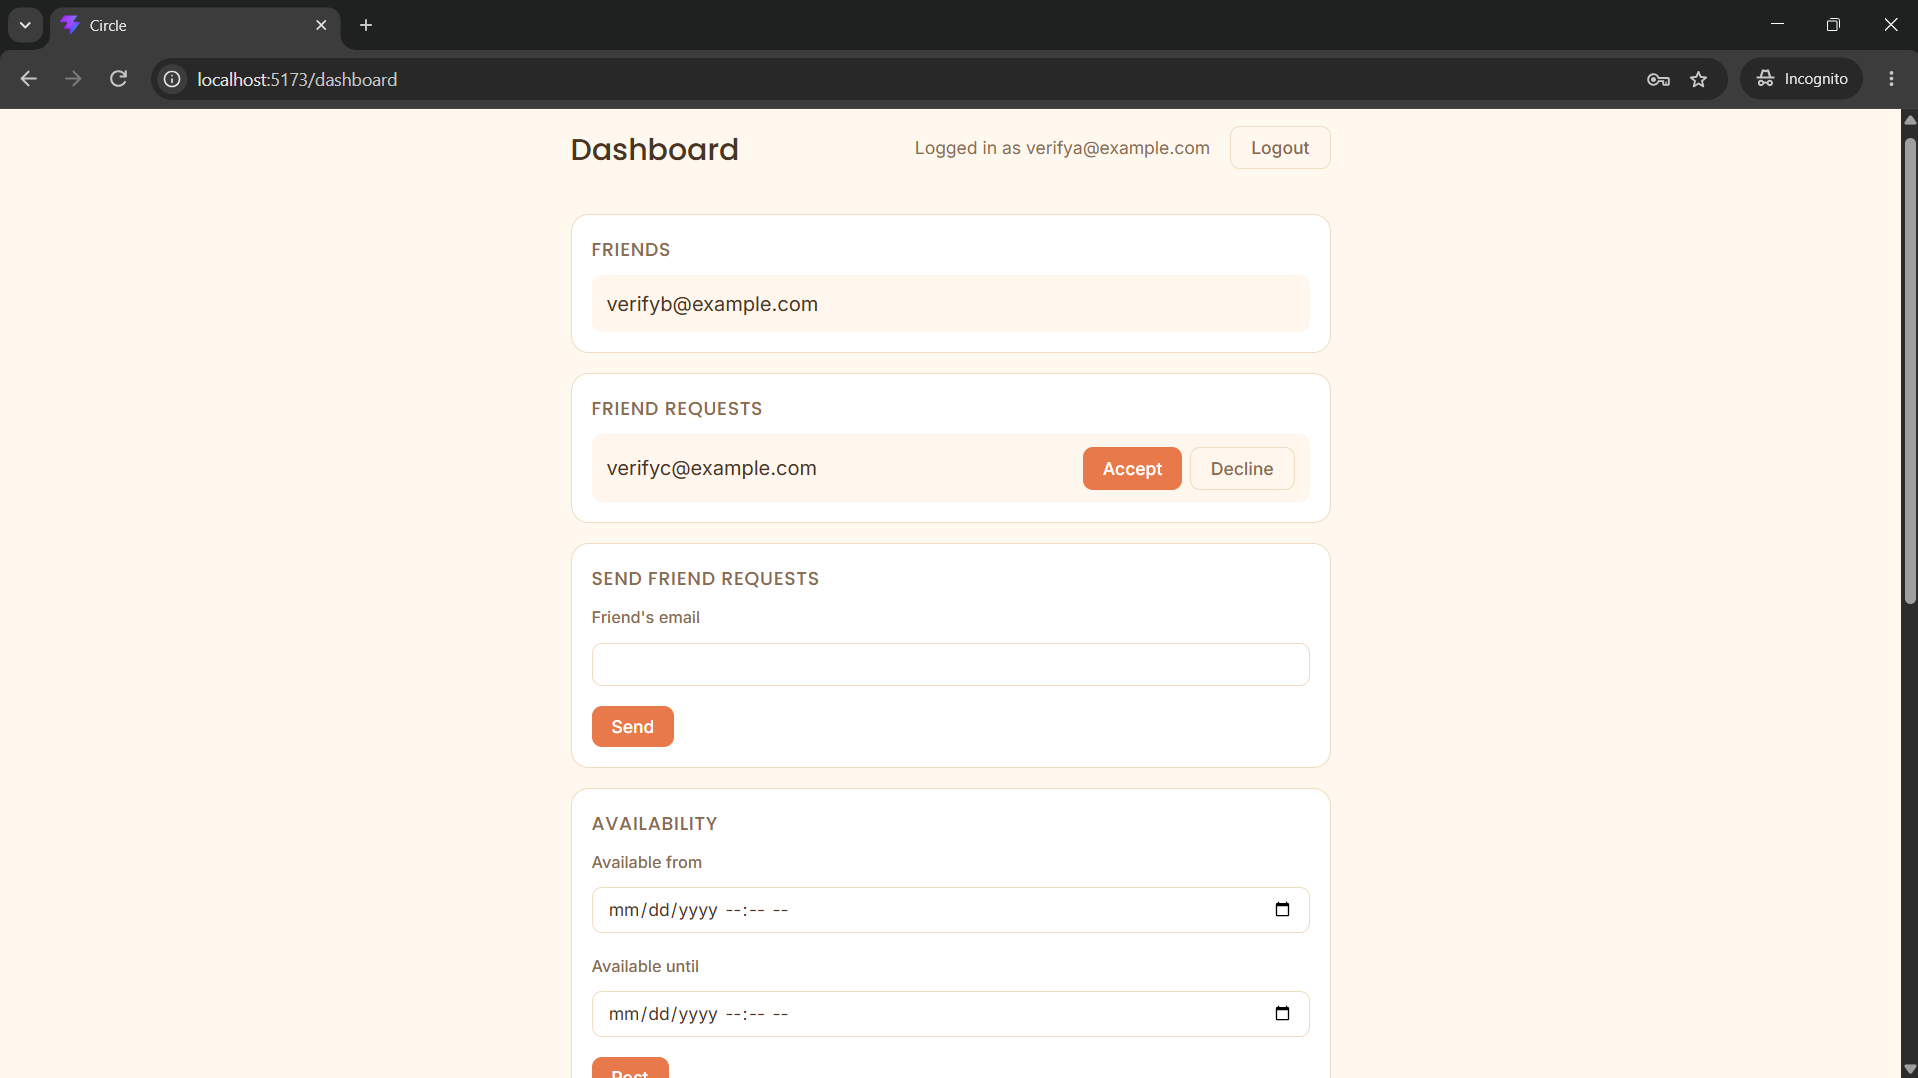
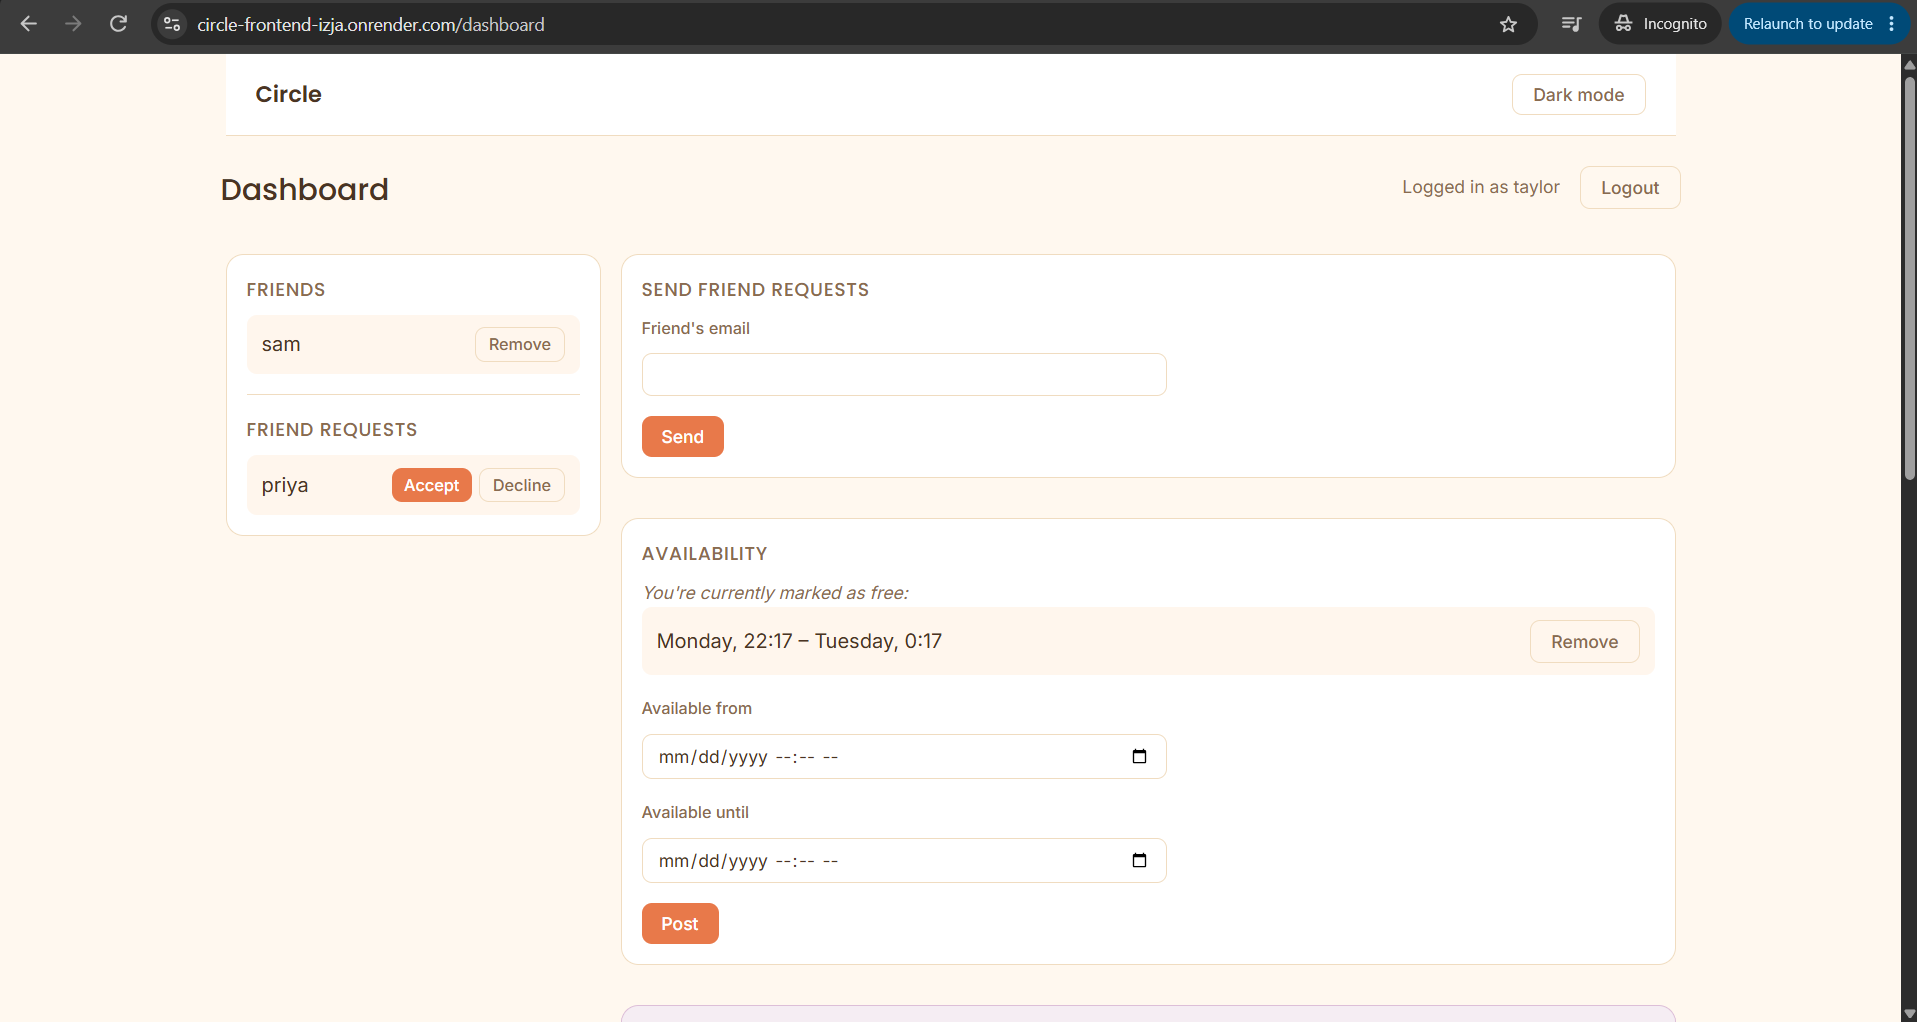
Add live demo link and fresh screenshots after full deployment verification
Ran a full error-case battery and clicked through every dashboard action button against the live production system (not just local/CI) - all correct. Fixed one real bug found in the process: direct-loading any frontend route besides / returned a 404 from Render's static file server, since those routes only exist client-side via React Router. Added a rewrite rule (Render dashboard setting, not a repo change) so any unmatched path still serves the app and lets React Router take over. README now links the live demo, and screenshots reflect the current UI instead of a two-week-old snapshot.

diff --git a/PROGRESS.md b/PROGRESS.md
@@ -989,3 +989,45 @@ That check-in happened: all three (#5, #7, #9) were reviewed and committed as th
 **Part E — wrap-up:** swap the live URL into the README, fresh screenshots against the current UI (current ones predate the sidebar layout, Current Outings, and the username field), commit.
 
 Still genuinely deferred, not scheduled, no urgency: #8 (soften the "mutual reveal" copy), #19 (accessibility pass), #20 (split the large `DashboardPage.jsx` into smaller components). After deployment is verified working: the interview-prep loop (see memory), not a coding task.
+
+---
+
+### What actually happened, executing the plan above (2026-09-27, continued)
+
+**Attribution change, mid-deployment:** user asked to stop the `Co-Authored-By: Claude` trailer going forward, and to also strip it from all 74 already-pushed commits rather than leave it. Since nobody else had cloned the repo yet, this was safe: `git filter-branch --msg-filter 'sed "/^Co-Authored-By: Claude/d"'` rewrote every commit's message (verified via `git diff` against the pre-rewrite hash that the actual code/tree was byte-identical — only message text changed), then `git push --force-with-lease`. Going forward, the user runs `git add`/`git commit`/`git push` themselves; I hand over exact commands instead of running them.
+
+**A real CI bug, only visible on the actual first GitHub Actions run:** the very first real push triggered CI, and `backend-tests` failed — `ModuleNotFoundError: No module named 'app'` from `conftest.py`. Root cause: `ci.yml` ran bare `pytest -v`, not `python -m pytest -v`. The two are not equivalent — `-m` inserts the current directory onto `sys.path`; bare `pytest` relies on its own rootdir logic instead, which (since `backend/tests/` has no `__init__.py`) only adds `tests/` itself to `sys.path`, never its parent `backend/` where the `app` package actually lives. This had been a latent bug in `ci.yml` since it was written — every local "simulate CI" check this project ever ran (including two fresh-container reproductions done specifically to chase this bug) used `python -m pytest`, sidestepping the exact thing that broke, so nothing caught it until the real, first-ever GitHub Actions run. Fixed by changing `ci.yml` to `python -m pytest -v`, confirmed via a from-scratch `python:3.12-slim` container reproducing the exact failure first, then the exact fix. Real, live GitHub Actions run confirmed green afterward (checked via GitHub's public REST API, since log downloads need a token this session doesn't have).
+
+**Database host changed from the plan: Neon, not Render's own Postgres.** Discovered mid-setup that Render's free Postgres tier expires after ~30 days (real deletion, not a warning) — a dealbreaker for a CV demo meant to stay up for months of job hunting. Verified Neon's free tier is genuinely permanent (no credit card, not a trial) before committing to the switch. Tradeoff accepted: Neon's free compute scales to zero after 5 minutes idle (same category of cold-start delay as Render's own free-tier spin-down, not a new problem). Real, easy-to-miss gotcha caught before it caused a live error: Neon's connection string uses the plain `postgresql://` scheme, which SQLAlchemy resolves to the legacy `psycopg2` driver — not installed, this project uses `psycopg` v3 throughout. Fixed by using `postgresql+psycopg://` (same fix as an earlier CI bug this project hit months ago).
+
+**Two more free-tier surprises, both handled by falling back to the plan's own backup option:** Render's **Pre-Deploy Command** (the automatic-migrations feature) and its **Shell** tab are both paid-only features, unavailable on the free Web Service tier. Since Neon is a normal, publicly-reachable Postgres server (not walled off on Render's private network), migrations were run from the local Docker container instead, with `DATABASE_URL` temporarily overridden to point at the live Neon connection string for that one command: `docker compose exec -e DATABASE_URL="<neon-url>" backend alembic upgrade head`. All 8 migrations applied cleanly against a genuinely from-scratch, empty database — the first time this project's full migration history has ever run start-to-finish on a fresh database, which is real (if incidental) coverage of deferred item #15. Going forward, any future migration needs this same manual step (no shell access to automate it on the free tier).
+
+**Backend deployed and verified for real:** `https://circle-backend-xl28.onrender.com`. Health check path had to be corrected from Render's wrong default (`/healthz`) to the app's real endpoint (`/health`) — confirmed passing repeatedly in the live logs. A genuine live signup through the deployed API (`curl -X POST .../signup`) created real user `id: 1` in the actual production Neon database — first real user this app has ever had outside a dev/test environment.
+
+**Frontend deployed and verified for real:** `https://circle-frontend-izja.onrender.com`. Loads correctly (`200 OK`), landing page renders with correct content, dark mode correctly applies by default following the OS preference (same fallback logic verified locally now confirmed working on a brand-new origin with empty `localStorage`).
+
+**Still open, right where this session paused:** `FRONTEND_ORIGIN` was just set on the backend to `https://circle-frontend-izja.onrender.com` and a redeploy was triggered — **not yet confirmed finished or working**. User had to leave before Part D's real smoke test could run.
+
+---
+
+### Part D + E, and a final full verification pass (2026-09-28)
+
+**CORS confirmed working on the first real try.** Backend redeploy from the `FRONTEND_ORIGIN` change finished clean. First real signup through the live frontend appeared to hang — turned out to be Render's free-tier cold start (the backend hadn't had a real request in a while), not a bug; it completed successfully once warmed up. Full real user journey (signup → login → friend request → accept → overlapping availability → match → "Plan something" → create outing → accept → confirmed on both sides) run end-to-end through the actual deployed frontend talking to the actual deployed backend talking to the actual Neon database — including a mix of real UI clicks and direct API calls for setup speed.
+
+**One real bug found and fixed: the SPA-on-static-hosting routing gap.** Direct-loading any frontend route other than `/` (e.g. `/signup`) returned a genuine `404` from Render's static file server, since those routes only exist client-side via React Router once `index.html`'s JS has loaded — the file server has no idea `/signup` "exists." Fixed with a rewrite rule on the Render Static Site (`/*` → `/index.html`, action Rewrite) so any unmatched path still serves the app shell and lets React Router take over. Reconfirmed fixed by direct-loading `/signup` again after adding the rule.
+
+**A second, dedicated final verification pass, at the user's explicit request** ("do some error testing and run through the thing in full"), run against the live production system, not local/CI:
+- **Error cases**, all confirmed correct via direct API calls: empty signup (422), malformed email (422), duplicate signup (400), wrong password and nonexistent-email login (both return the same generic message, confirmed no information leak), missing auth (403), garbage token (401), self-friend-request (400), duplicate pending friend request (400), re-accepting an already-resolved friend request (400, `"request not pending"`), deleting a nonexistent availability window (404).
+- **Every single dashboard action button**, clicked for real in the live browser: signup form, login form, Plan something, Create Outing, friend Remove, availability Remove, outing Delete — plus outing-invite accept via API. Every one behaved exactly as designed on the real deployed system.
+- **Screenshots retaken against the live deployed app**: populated realistic demo data (`taylor`/`sam`/`priya` — friends, a pending request, a match, a confirmed outing), had the user capture `docs/screenshots/dashboard.png` and a new `docs/screenshots/homepage.png` directly from the live site (their own browser, since this session can't save its own screenshots to disk), then cleaned that demo data back out.
+- **Full database cleanup**: every test/demo account created across today's whole session (`alex_live`/`jordan_live`/`live_deploy_check`/`taylor_demo`/`sam_demo`/`priya_demo`/`errtest_final`/`errtest_final2`/`finalcheck_a`/`finalcheck_b`) removed via direct SQL against the live Neon database (same `docker compose exec -e DATABASE_URL=... backend python -c "..."` technique used for migrations) — production database confirmed empty, zero leftover clutter.
+
+**README fully rewritten**, not just a URL swap: added a live-demo link at the top (with an honest note about the free-tier cold-start delay), replaced both screenshots with current ones, added a `homepage.png` shot (new — narratively better than the old login screenshot, and the old `login.png` was deleted as now-unreferenced), and added a "Infra (deployed): Render + Neon" line to the tech stack alongside the existing local Docker/CI line.
+
+**Not yet done, deliberately last:** committing all of this. Working tree currently has `PROGRESS.md`, `README.md`, `docs/screenshots/dashboard.png` (updated), `docs/screenshots/homepage.png` (new), and `docs/screenshots/login.png` (deleted) — all ready, none committed. User runs `git add`/`commit`/`push` themselves now (no `Co-Authored-By` trailer going forward, per their own request; the previous 74 commits were also rewritten to strip it retroactively, see above).
+
+---
+
+## RESUME HERE — the project is functionally complete and fully verified live, pending only the final commit of the README/screenshot update above. Nothing else is blocking.
+
+Still genuinely deferred, not scheduled, no urgency: #8 (soften the "mutual reveal" copy), #19 (accessibility pass), #20 (split the large `DashboardPage.jsx` into smaller components), a free external keep-alive ping to dodge Render's free-tier spin-down delay (flagged, not blocking). After the commit above lands: the interview-prep loop (see memory: `feedback_interview_prep_loop.md`) — a review/recall phase, not further coding.

diff --git a/README.md b/README.md
@@ -2,7 +2,9 @@
 
 A social coordination app: mark yourself free, get matched with friends whose availability overlaps, and get invited to (or propose) outings — without a WhatsApp group chat argument.
 
-![Circle dashboard](docs/screenshots/dashboard.png)
+**[Live demo](https://circle-frontend-izja.onrender.com)** — the backend is on a free tier and spins down when idle, so the first request after a quiet stretch can take up to a minute to wake back up. Totally normal, not broken.
+
+![Circle homepage](docs/screenshots/homepage.png)
 
 ## Why this exists
 
@@ -25,15 +27,16 @@ Organizing a hangout usually means a group chat, everyone slowly replying with t
 
 ## Screenshots
 
-| Login | Dashboard |
+| Homepage | Dashboard |
 |---|---|
-| ![Login page](docs/screenshots/login.png) | ![Dashboard](docs/screenshots/dashboard.png) |
+| ![Circle homepage](docs/screenshots/homepage.png) | ![Dashboard](docs/screenshots/dashboard.png) |
 
 ## Tech stack
 
 - **Backend:** Python, FastAPI, SQLAlchemy, PostgreSQL, Alembic migrations, JWT auth
 - **Frontend:** React (Vite), react-router-dom, plain JavaScript/JSX, hand-written CSS
-- **Infra:** Docker Compose (backend + database), GitHub Actions (CI)
+- **Infra (local):** Docker Compose (backend + database), GitHub Actions (CI)
+- **Infra (deployed):** Render (backend web service + static frontend site), Neon (serverless PostgreSQL)
 
 ## Getting started
 
